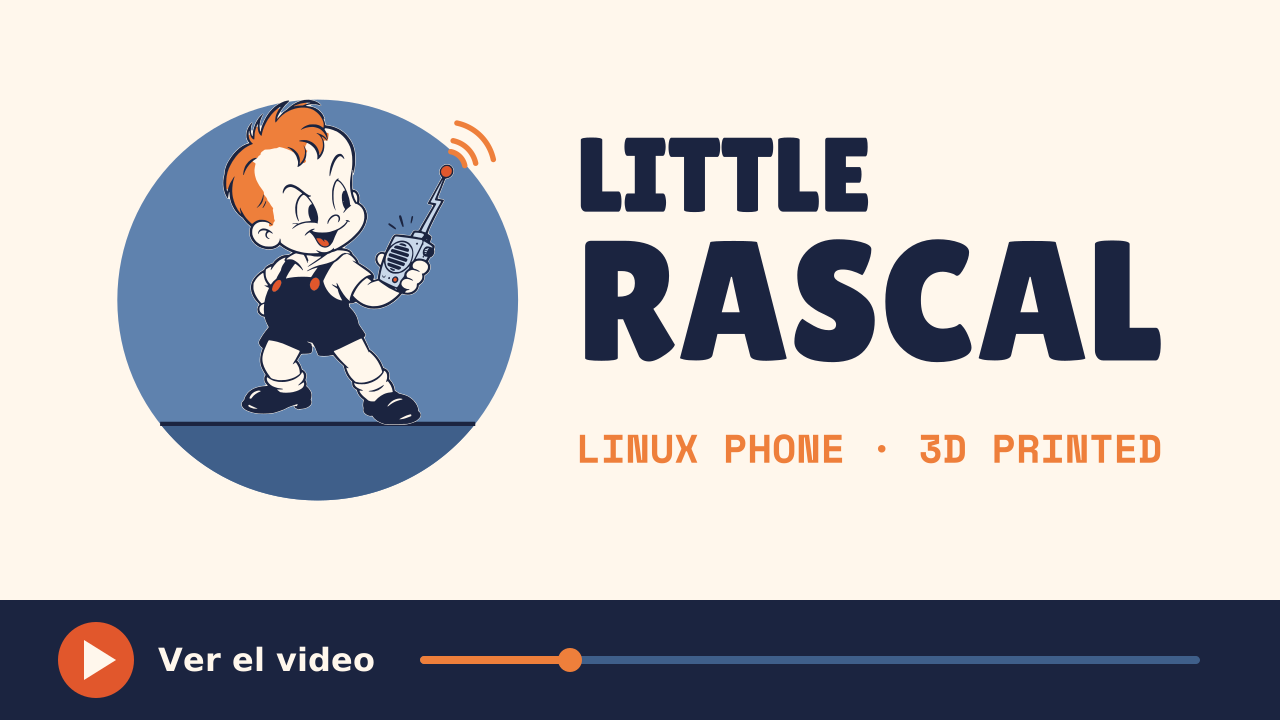
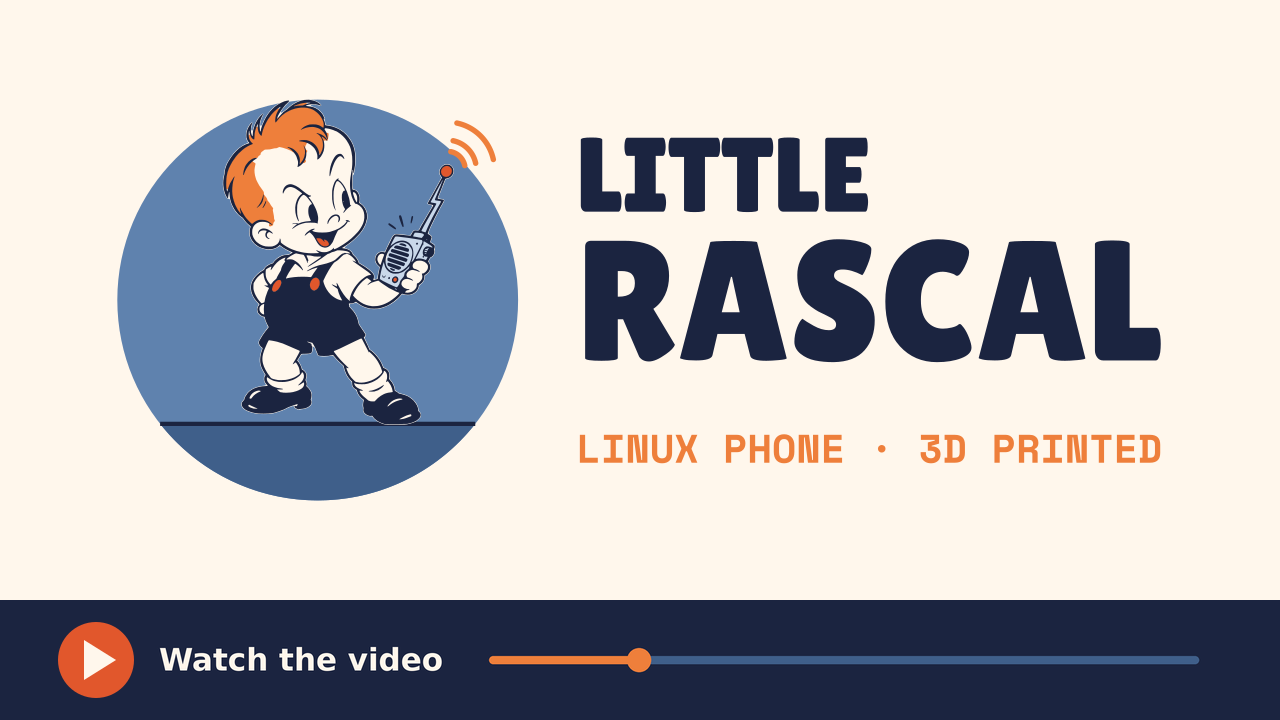
README wording, English video cover, joystick note

Changed region(s): [[0.125, 0.8861, 0.375, 0.9472], [0.4375, 0.8861, 0.5312, 0.9472]]

diff --git a/README.md b/README.md
@@ -1,10 +1,10 @@
 
-![Alt text](docs/little-rascal-logo-horizontal.png)
+![Little Rascal](docs/little-rascal-logo-horizontal.png)
 # One-Line Installation! 👾
 
-![Alt text](docs/lamina.png)
+![Little Rascal infographic](docs/lamina.png)
 
-[![Ver el video](docs/video-preview.png)](https://youtu.be/av3fPSf0-EM)
+[![Watch the video](docs/video-preview.png)](https://youtu.be/av3fPSf0-EM)
 
 
 # Plasma Mobile on Raspberry Pi 4
@@ -12,7 +12,7 @@
 <img width="1280" height="488" alt="Plasma_Mobile_logo svg" src="https://github.com/user-attachments/assets/b8028824-20c7-4326-953c-b8fe6cebab83" />
 
 
-**A tested, working guide to install Plasma Mobile on Raspberry Pi 4** - the result of 2 years of research and testing.\
+**A tested, working guide to install Plasma Mobile on Raspberry Pi 4** - the result of 3 years of research and testing.
 
 **See docs/Installation-Flow-Diagram.md for flow diagram**
 ## 🚀 Quick Start
@@ -41,7 +41,7 @@ This repository contains **the definitive solution** for installing Plasma Mobil
 
 ## 🎯 Why This Works (And Why Others Don't)
 
-After testing **EVERYTHING** for 2 years:
+After testing **EVERYTHING** for 3 years:
 
 | Method | Status | Reason |
 |--------|--------|--------|
@@ -182,7 +182,7 @@ This is an independent project, not affiliated with or endorsed by Raspberry Pi 
 
 ## 🙏 Credits
 
-**Created after 2 years of research and testing**
+**Created after 3 years of research and testing**
 
 Special thanks to:
 - KDE Plasma Mobile team
@@ -198,7 +198,7 @@ Special thanks to:
 
 ## 📈 Project Statistics
 
-- **Development Time:** 2 years
+- **Development Time:** 3 years
 - **Methods Tested:** 5+ different approaches
 - **Status:** Working on Raspberry Pi 4B (Debian 13 Trixie)
 - **Lines of Code in Installer:** 400+
@@ -231,7 +231,7 @@ If this guide helped you get Plasma Mobile running, please **star this repositor
 
 **Made with ❤ by Philip McColl, for the community**
 
-*This guide represents 2 years of dedication to making mobile Linux accessible on Raspberry Pi 4*
+*This guide represents 3 years of dedication to making mobile Linux accessible on Raspberry Pi 4*
 
 ## 🔗 Quick Navigation
 

diff --git a/docs/dual_joystick.md b/docs/dual_joystick.md
@@ -1,5 +1,7 @@
 # Dual KY-023 Joystick Controller for Raspberry Pi 4
 
+> **Note:** side project notes. The Python scripts and `install.sh` mentioned below are not included in this repository yet.
+
 A complete guide for connecting two KY-023 dual-axis joystick modules to a Raspberry Pi 4 Model B using an ADS1118/ADS1018 16-bit analog-to-digital converter via SPI interface.
 
 ![Project Status](https://img.shields.io/badge/status-active-success.svg)
